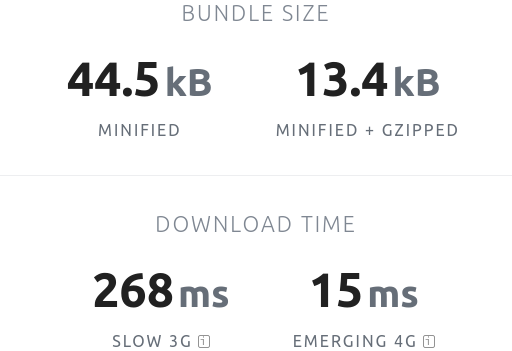
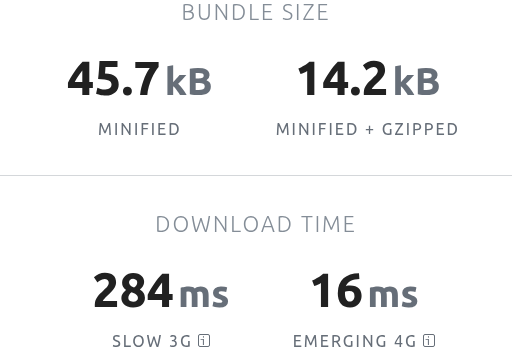
docs(site): refresh bundlephobia stats for xstate@5.33.4 and yay-machine@1.5.0
Fix broken .logo-small selector in sync-docs.ts (bundlephobia.com redesign
renamed it to .ui-brand-logo), re-capture bundle-size screenshots and update
version references in index.mdx and vs-xstate.mdx.

diff --git a/scripts/sync-docs.ts b/scripts/sync-docs.ts
@@ -51,7 +51,7 @@ const captureBundlephobiaStats = async (): Promise<PackagesMetadata> => {
   const context = await browser.newContext(devices["Desktop Chrome"]);
   const page = await context.newPage();
 
-  const logoSmall = page.locator(".logo-small");
+  const logoSmall = page.locator(".ui-brand-logo");
   const statsContainer = page.locator(".stats-container");
   const autocompleteInput = page.locator(".autocomplete-input");
 
